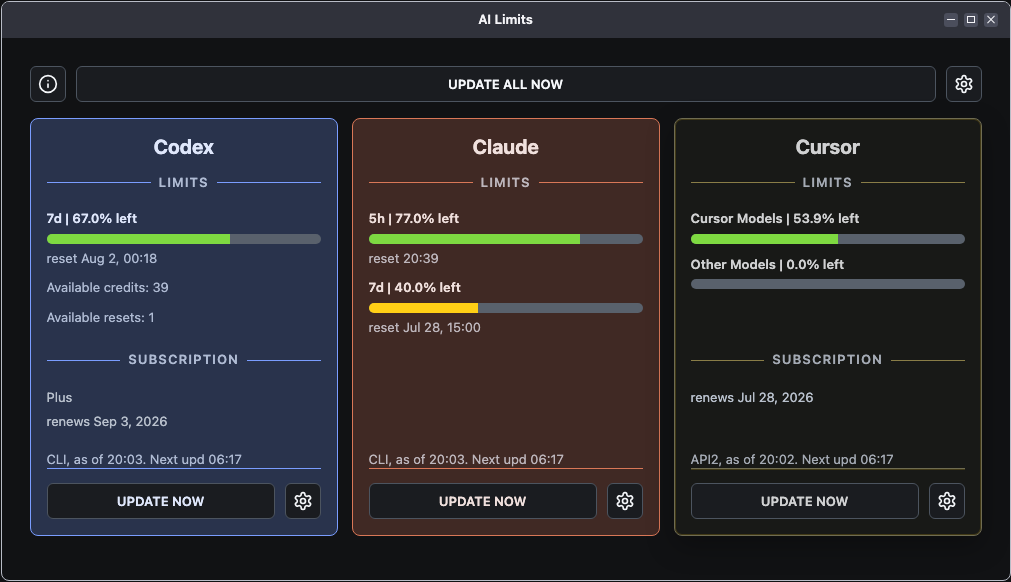
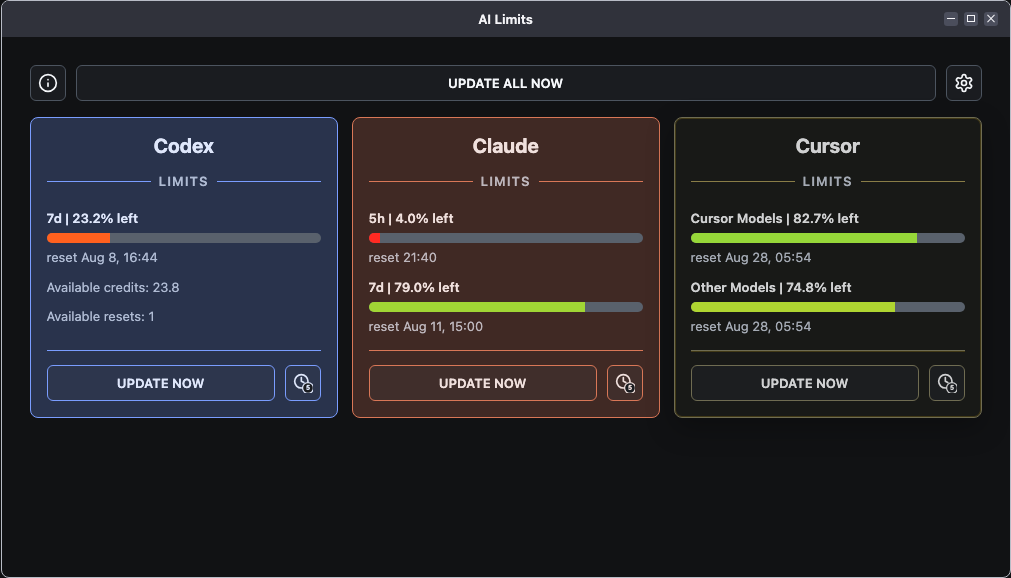
Restore gradient limit bar colors and refresh showcase screenshots
The CSP hardening commit that switched limit bars from an interpolated
fill color to three flat rgb() steps left the spec in
provider-block-content.md unchanged, so the two silently diverged.
Restore the gradient without touching CSP: colorForRemaining stays in
JS, but the computed color is now applied via style.setProperty on the
element (CSSOM), which style-src 'self' doesn't block, instead of
being written into the HTML string as a style="" attribute. Anchors
are updated to 10% red / 50% yellow / 90%+ green per product decision.

Also update the showcase mock data to the latest sample values, and
make screenshots reproducible: the capture script now force-disables
the plan/source/update-time display toggles instead of leaving them
at their ambient default, and docs/product/showcase.md gets a
"Screenshot Requirements" section spelling out viewport, theme, and
toggle state per shot so this doesn't need re-deriving next time.

diff --git a/frontend/modules/showcase.js b/frontend/modules/showcase.js
@@ -12,17 +12,17 @@ export const SHOWCASE_PROVIDERS = {
     id: "codex",
     label: "Codex",
     sourceId: "codex-rpc",
-    dataTimestamp: "20:03",
+    dataTimestamp: "16:34",
     selectedUpdateFrequency: "5 min",
     limits: [
-      { label: "7d", remainingPercentage: 67.0, resetTime: "Aug 2, 00:18" },
+      { label: "7d", remainingPercentage: 23.2, resetTime: "Aug 8, 16:44" },
     ],
-    creditsRemaining: 39,
+    creditsRemaining: 23.8,
     availableLimitResets: 1,
     // Codex reports a plan name but no price and no management links, so the
-    // subscription section is two lines and carries no link line.
+    // subscription section is a single line and carries no link line.
     plan: {
-      lines: ["Plus", "renews Sep 3, 2026"],
+      lines: ["Plus"],
       links: [],
     },
     errorMessage: null,
@@ -33,18 +33,18 @@ export const SHOWCASE_PROVIDERS = {
     id: "claude",
     label: "Claude",
     sourceId: "claude-rpc",
-    dataTimestamp: "20:03",
+    dataTimestamp: "16:41",
     selectedUpdateFrequency: "5 min",
     limits: [
-      { label: "5h", remainingPercentage: 77.0, resetTime: "20:39" },
-      { label: "7d", remainingPercentage: 40.0, resetTime: "Jul 28, 15:00" },
+      { label: "5h", remainingPercentage: 4.0, resetTime: "21:40" },
+      { label: "7d", remainingPercentage: 79.0, resetTime: "Aug 11, 15:00" },
     ],
     creditsRemaining: null,
     availableLimitResets: null,
-    // Claude exposes no plan data at all, so the card shows no
-    // PLAN heading and no rule where one would have been.
+    // Claude reports a plan name but no price and no management links, so the
+    // subscription section is a single line and carries no link line.
     plan: {
-      lines: [],
+      lines: ["Pro"],
       links: [],
     },
     errorMessage: null,
@@ -55,18 +55,18 @@ export const SHOWCASE_PROVIDERS = {
     id: "cursor",
     label: "Cursor",
     sourceId: "cursor-api2",
-    dataTimestamp: "20:02",
+    dataTimestamp: "16:34",
     selectedUpdateFrequency: "5 min",
     limits: [
-      { label: "Cursor Models", remainingPercentage: 53.9, resetTime: null },
-      { label: "Other Models", remainingPercentage: 0.0, resetTime: null },
+      { label: "Cursor Models", remainingPercentage: 82.7, resetTime: "Aug 28, 05:54" },
+      { label: "Other Models", remainingPercentage: 74.8, resetTime: "Aug 28, 05:54" },
     ],
     creditsRemaining: null,
     availableLimitResets: null,
-    // The Cursor source carries no tier name and no price, so the
-    // subscription section is the renewal line alone, with no links.
+    // The Cursor source carries a tier name with an approximate price, plus
+    // a renewal line, and no management links.
     plan: {
-      lines: ["renews Jul 28, 2026"],
+      lines: ["Pro ≈ $20.00 /mo", "renews Aug 28, 2026"],
       links: [],
     },
     errorMessage: null,

diff --git a/frontend/modules/provider-rendering.js b/frontend/modules/provider-rendering.js
@@ -1,5 +1,5 @@
 import { updateFrequencyOptions } from "./constants.js";
-import { escapeHtml, formatDecimal, formatSourceStatusLine, formatTimestampForDisplay, formatUpdateTimeLine } from "./provider-formatters.js";
+import { colorForRemaining, escapeHtml, formatDecimal, formatSourceStatusLine, formatTimestampForDisplay, formatUpdateTimeLine } from "./provider-formatters.js";
 import { isShowLimitsEnabled, isShowPlanEnabled, isShowSourceEnabled, isShowUpdateTimeEnabled } from "./settings.js";
 
 const FREQUENCY_ICON_BADGES = {
@@ -118,18 +118,27 @@ function buildLimitRowsHtml(provider) {
     const remaining = Number(limit.remainingPercentage) || 0;
     const percent = remaining.toFixed(1);
     const width = Math.max(0, Math.min(100, remaining));
-    const meterTone = width <= 1 ? "danger" : width <= 50 ? "warning" : "success";
     const formattedResetTime = formatTimestampForDisplay(limit.resetTime);
     const resetText = formattedResetTime ? `reset ${escapeHtml(formattedResetTime)}` : "";
 
     return `
       <div class="limit-row">
         <div class="limit-top">${escapeHtml(limit.label)} | ${percent}% left</div>
-        <progress class="meter meter--${meterTone}" value="${width}" max="100" aria-label="${escapeHtml(provider.label)} ${escapeHtml(limit.label)} ${percent}% left"></progress>
+        <progress class="meter" data-remaining="${width}" value="${width}" max="100" aria-label="${escapeHtml(provider.label)} ${escapeHtml(limit.label)} ${percent}% left"></progress>
         ${resetText ? `<div class="limit-reset">${resetText}</div>` : ""}
       </div>
     `;
   }).join("");
+}
+
+// CSP forbids `style="..."` attributes (no `unsafe-inline`), so the
+// interpolated fill color can't be written into the HTML string above.
+// Setting individual CSSOM properties via `style.setProperty` is not an
+// inline-style attribute and is unaffected by that restriction.
+function applyMeterFillColors(root) {
+  root.querySelectorAll(".meter[data-remaining]").forEach((meter) => {
+    meter.style.setProperty("--meter-fill", colorForRemaining(Number(meter.dataset.remaining)));
+  });
 }
 
 const SECTION_HEADINGS = {
@@ -276,12 +285,15 @@ export function renderProvider(provider, selectedUpdateFrequency, nextRefreshAt)
       ${buildSourceLineHtml(provider)}
     </div>
   `;
+  applyMeterFillColors(block);
 
   return block;
 }
 
 export function updateProviderBlockData(block, provider, nextRefreshAt) {
-  block.querySelector(".provider-sections").innerHTML = buildProviderSectionsHtml(provider);
+  const sections = block.querySelector(".provider-sections");
+  sections.innerHTML = buildProviderSectionsHtml(provider);
+  applyMeterFillColors(sections);
   block.querySelector(".source-line").outerHTML = buildSourceLineHtml(provider);
   block.querySelector(".update-time-line").outerHTML = buildUpdateTimeLineHtml(provider, nextRefreshAt);
 }

diff --git a/frontend/modules/provider-formatters.js b/frontend/modules/provider-formatters.js
@@ -2,6 +2,30 @@ const MONTH_NAMES = [
   "Jan", "Feb", "Mar", "Apr", "May", "Jun", "Jul", "Aug", "Sep", "Oct", "Nov", "Dec",
 ];
 
+const METER_ACCENTS = {
+  danger: [255, 42, 34],
+  warning: [255, 207, 22],
+  success: [126, 217, 65],
+};
+
+// 90%+ is green, 50% is yellow, 10% or less is red; values between anchors
+// are linearly interpolated so the fill is never a flat step.
+export function colorForRemaining(remainingPercent) {
+  const clamped = Math.max(0, Math.min(100, remainingPercent));
+  if (clamped <= 10) return `rgb(${METER_ACCENTS.danger.join(", ")})`;
+  if (clamped >= 90) return `rgb(${METER_ACCENTS.success.join(", ")})`;
+  const stops = [
+    { pct: 10, rgb: METER_ACCENTS.danger },
+    { pct: 50, rgb: METER_ACCENTS.warning },
+    { pct: 90, rgb: METER_ACCENTS.success },
+  ];
+  const upperIndex = stops.findIndex((stop) => clamped <= stop.pct);
+  const upper = stops[upperIndex];
+  const lower = stops[Math.max(0, upperIndex - 1)];
+  const ratio = (clamped - lower.pct) / (upper.pct - lower.pct || 1);
+  return `rgb(${lower.rgb.map((channel, index) => Math.round(channel + (upper.rgb[index] - channel) * ratio)).join(", ")})`;
+}
+
 const SOURCE_DISPLAY_LABELS = {
   "codex-local": "Local files",
   "codex-rpc": "RPC",

diff --git a/frontend/styles/providers.css b/frontend/styles/providers.css
@@ -250,6 +250,7 @@
   overflow: hidden;
   border-radius: var(--radius-pill);
   background: var(--meter-bg);
+  --meter-fill: rgb(126, 217, 65);
 }
 
 .meter::-webkit-progress-bar {
@@ -262,18 +263,6 @@
 
 .meter::-moz-progress-bar {
   background: var(--meter-fill);
-}
-
-.meter--danger {
-  --meter-fill: rgb(255, 42, 34);
-}
-
-.meter--warning {
-  --meter-fill: rgb(255, 207, 22);
-}
-
-.meter--success {
-  --meter-fill: rgb(126, 217, 65);
 }
 
 .limit-reset {

diff --git a/docs/product/showcase.md b/docs/product/showcase.md
@@ -9,3 +9,15 @@ To replace the README images in `docs/readmes/screenshots/` in one step, run `np
 The fixed data is defined in `frontend/modules/showcase.js` so its shape follows the rendered provider cards. Update it only when a new screenshot needs different content or the displayed data model changes.
 
 The frame starts at a compact size and can be resized by dragging its invisible bottom-right corner. The three platform controls change only the decorative window chrome. Showcase windows use a 1px gray border so README screenshots stay visible on light and dark GitHub backgrounds.
+
+## Screenshot Requirements
+
+Fixed rules for `scripts/update-showcase-screenshots.mjs`, so future updates don't have to re-derive them:
+
+- Display toggles: `showPlan`, `showSource`, and `showUpdateTime` are OFF (only `showLimits` is on). Cards must show limit bars only, no PLAN section, no `Source ...` line, no `Last upd ...` line.
+- Viewport `1400x900`, `deviceScaleFactor: 1`.
+- Theme: `dark` for `macos.png`, `windows.png`, `linux.png`, `macos-help.png`; `light` for `macos-light-settings.png`.
+- Window frame is resized to `1010px` wide with `box-shadow: none` before capture; page background is made transparent.
+- The capture target is `.showcase-window` with `omitBackground: true` (PNG keeps transparency outside the frame).
+- Five fixed shots: `macos`, `windows`, `linux` (plain), `macos-light-settings` (settings dropdown open), `macos-help` (help view open).
+- Mock data always comes from `frontend/modules/showcase.js`; never hand-edit a screenshot or hardcode different numbers per shot.

diff --git a/docs/desktop/ui/provider-block-content.md b/docs/desktop/ui/provider-block-content.md
@@ -30,9 +30,9 @@ The remaining bar shows:
 
 The filled segment color is calculated from remaining percentage:
 
-- `100%` is green
+- `90%` or more is green
 - `50%` is yellow
-- `1%` is red
+- `10%` or less is red
 - intermediate values are interpolated between these anchors
 
 The bar must not use a left-to-right rainbow gradient inside the filled segment. For example, if `10%` remains, the filled 10% segment is a near-red color and the spent 90% segment stays light.
